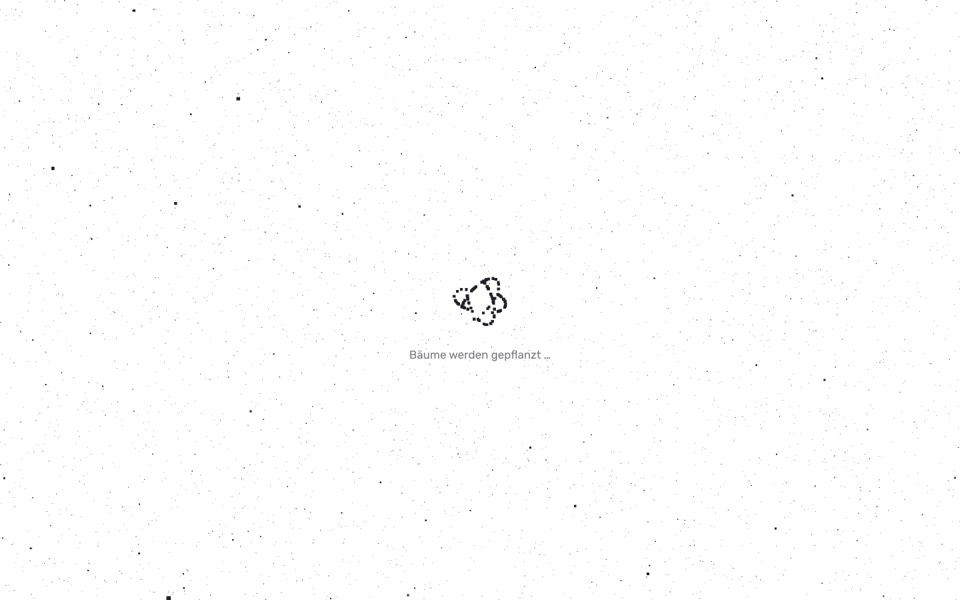
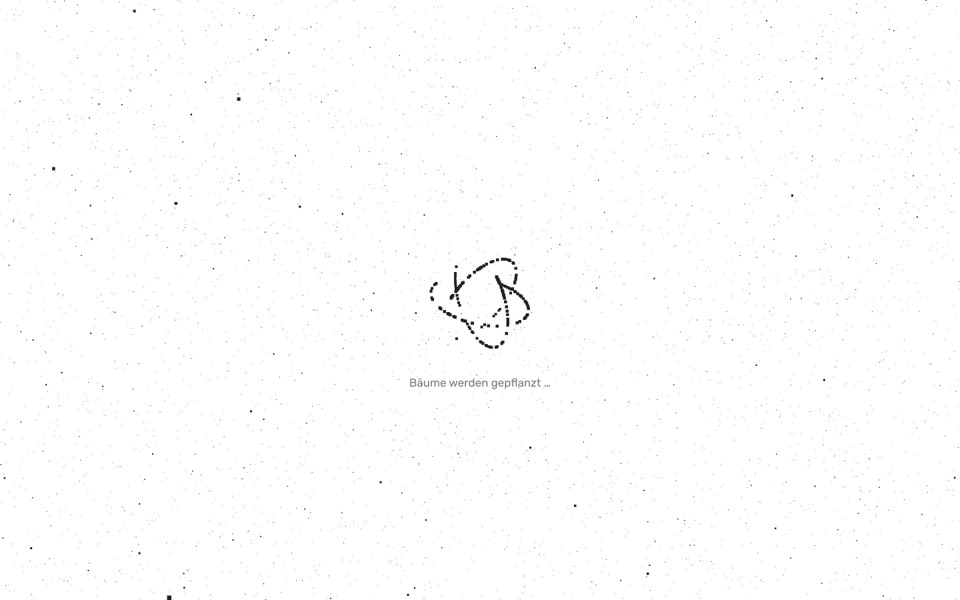
style: 💄 Enlarge the particle spinners
The three air spinners are about twice the size, with more particles, and
the line under them moves down to match.

Changed region(s): [[0.4062, 0.42, 0.5625, 0.6], [0.4062, 0.63, 0.5625, 0.66], [0.1562, 0.99, 0.1875, 1.0]]

diff --git a/prototypes/start-menu/shared/air-loaders.js b/prototypes/start-menu/shared/air-loaders.js
@@ -101,10 +101,10 @@ export function endless(borrow, depth) {
   };
 }
 
-// Small spinners, the size of a plain loading ring, made of a few dozen
-// particles (11-13).
+// Spinners made of about a hundred particles, a little larger than a plain
+// loading ring (11-13).
 const SPIN_SECONDS = 1.6;
-const spinRadius = (view) => Math.max(22, Math.min(34, size(view) * 0.038));
+const spinRadius = (view) => Math.max(40, Math.min(66, size(view) * 0.072));
 
 /** Ring: the plain spinner's breathing arc, drawn by particles along it. */
 export function ringSpinner(borrow, depth) {
@@ -120,7 +120,7 @@ export function ringSpinner(borrow, depth) {
       const start = t * (TAU / SPIN_SECONDS) + cycle * TAU * 0.8;
       const u = hash(index, 1);
       const angle = start - u * span * TAU - Math.PI / 2;
-      const r = radius + (hash(index, 2) - 0.5) * 2.4;
+      const r = radius + (hash(index, 2) - 0.5) * 3.6;
       out.x = Math.cos(angle) * r;
       out.y = Math.sin(angle) * r;
       out.depth = (hash(index, 3) - 0.5) * 0.6;
@@ -141,7 +141,7 @@ export function dotsSpinner(borrow, depth) {
       // leans toward the eye, so its particles grow.
       const phase = (dot / DOTS - t / (SPIN_SECONDS * 0.8)) % 1;
       const lit = Math.max(0, Math.cos(((phase + 1) % 1) * TAU)) ** 4;
-      const spread = 1.6 + lit * 3.4;
+      const spread = (1.6 + lit * 3.4) * (radius / 28);
       const a = hash(index, 4) * TAU + t * 2;
       const r = Math.sqrt(hash(index, 5)) * spread;
       out.x = Math.cos(angle) * radius + Math.cos(a) * r;

diff --git a/prototypes/start-menu/11-ring/main.js b/prototypes/start-menu/11-ring/main.js
@@ -1,6 +1,6 @@
 /**
- * Ring: a small spinner made of air: the plain loading ring's breathing arc, drawn by a few
- * dozen air particles. One line
+ * Ring: a small spinner made of air: the plain loading ring's breathing arc, drawn by about a hundred
+ * air particles. One line
  * under it says what reality is still putting together. When loading
  * completes, its particles join the air that writes the title. A click
  * flings a few particles out of the pointer.
@@ -18,4 +18,4 @@ const variant = startAirVariant({
   plainMarker: true,
   titleScreens: ["loading", "menu", "credits"],
 });
-runLoader(variant, ringSpinner, { count: 72, phoneCount: 54 });
+runLoader(variant, ringSpinner, { count: 130, phoneCount: 90 });

diff --git a/prototypes/start-menu/shared/variants.js b/prototypes/start-menu/shared/variants.js
@@ -69,7 +69,7 @@ export const VARIANTS = [
     slug: "11-ring",
     name: "Ring",
     tone: "centred, particle spinner",
-    note: "The plain ring's breathing arc, drawn by a few dozen air particles. They join the title when loading completes.",
+    note: "The plain ring's breathing arc, drawn by about a hundred air particles. They join the title when loading completes.",
   },
   {
     slug: "12-dots",

diff --git a/prototypes/start-menu/13-orbit/main.js b/prototypes/start-menu/13-orbit/main.js
@@ -18,4 +18,4 @@ const variant = startAirVariant({
   plainMarker: true,
   titleScreens: ["loading", "menu", "credits"],
 });
-runLoader(variant, orbitSpinner, { count: 120, phoneCount: 84 });
+runLoader(variant, orbitSpinner, { count: 210, phoneCount: 140 });

diff --git a/prototypes/start-menu/12-dots/main.js b/prototypes/start-menu/12-dots/main.js
@@ -18,4 +18,4 @@ const variant = startAirVariant({
   plainMarker: true,
   titleScreens: ["loading", "menu", "credits"],
 });
-runLoader(variant, dotsSpinner, { count: 100, phoneCount: 70 });
+runLoader(variant, dotsSpinner, { count: 170, phoneCount: 110 });

diff --git a/prototypes/start-menu/11-ring/style.css b/prototypes/start-menu/11-ring/style.css
@@ -2,7 +2,7 @@
    menu without the walking marker. */
 
 :root {
-  --below: 34px;
+  --below: clamp(48px, 8.4vmin, 78px);
   --title-top: 30vh;
 }
 

diff --git a/prototypes/start-menu/12-dots/style.css b/prototypes/start-menu/12-dots/style.css
@@ -2,7 +2,7 @@
    menu without the walking marker. */
 
 :root {
-  --below: 34px;
+  --below: clamp(48px, 8.4vmin, 78px);
   --title-top: 30vh;
 }
 

diff --git a/prototypes/start-menu/13-orbit/style.css b/prototypes/start-menu/13-orbit/style.css
@@ -2,7 +2,7 @@
    menu without the walking marker. */
 
 :root {
-  --below: 34px;
+  --below: clamp(48px, 8.4vmin, 78px);
   --title-top: 30vh;
 }
 

diff --git a/prototypes/start-menu/README.md b/prototypes/start-menu/README.md
@@ -98,8 +98,8 @@ loading completes, gathering out of the air into the title.
 
 ## Particle spinners (11-13)
 
-Like 10, but the spinner itself is made of a few dozen borrowed air
-particles: the plain ring's breathing arc (11), a ring of ten clusters whose
+Like 10, but the spinner itself, a little larger, is made of a hundred or
+so borrowed air particles: the plain ring's breathing arc (11), a ring of ten clusters whose
 lit one swells and leans toward the eye (12), or three small rings turning in
 tilted planes (13). When loading completes, they join the air that writes
 the title.
